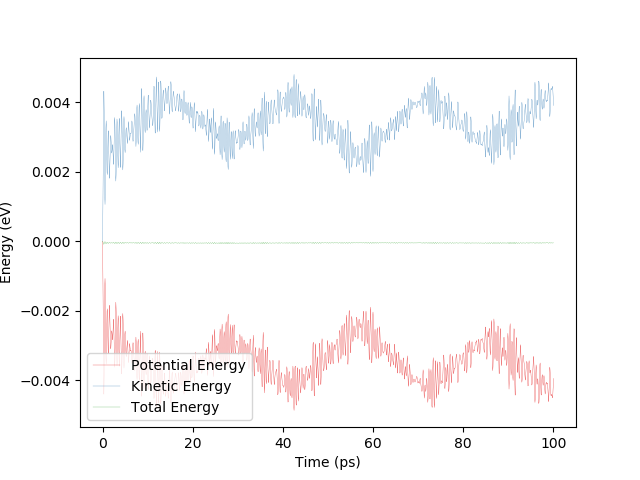
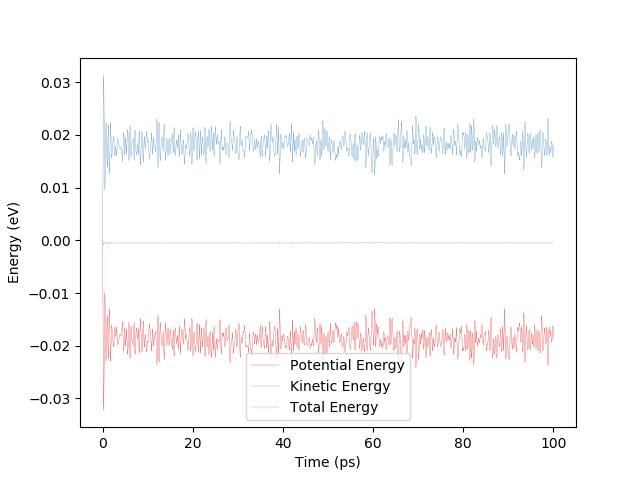
All completed

diff --git a/Assignment 4/Lennard_Jones.py b/Assignment 4/Lennard_Jones.py
@@ -2,27 +2,34 @@
 
 import numpy as np
 import matplotlib.pyplot as plt
-import scipy.fftpack
 import seaborn as sns
 
 def Init(N):
     '''
-    Initialised the positions of a chain of N argon atoms in a straight line
+    ============================================================================
+    Initialises the atomic positions of a chain of N argon atoms in 1D with a
+    variance of 0.01 Angstrom - note if the variance is changed to 0.001
+    Angstrom a much more periodic motion is observed as the atoms are initially
+    more evenly spaced.
+    ============================================================================
 
     Parameters
     -----------
-    N - int, Number of argon atoms in the chain
+    N : int,
+        Number of argon atoms in the chain
 
     Returns
     --------
-    pos - array, initial positions of argon atoms in chain
-    v0 - array, initial velocity of each atom
+    pos : array,
+        Initial positions of argon atoms in chain
+    v0 : array,
+        Initial velocity of each atom
     '''
 
     #Equilibrium separation
     do = 3.9 #Angstrom
-    #Random number to determine an initial displacement from equilibrium
-    sigma = np.sqrt(0.001)
+    #Generates random number to determine an initial displacement from equilibrium with std dev sigma
+    sigma = np.sqrt(0.01)
     s = np.random.normal(0,sigma,N)
     #s = np.zeros(N)
 
@@ -38,27 +45,29 @@ def Init(N):
 
 def Accel(pos):
     '''
+    ============================================================================
     determines the force on each argon atom in the chain as a result of Lennard-
     Jones potentials
+    ============================================================================
 
     Parameters
     -----------
-    pos - array, initial positions of the argon atoms
+    pos : array
+        Initial positions of the argon atoms
 
     Returns
     -------
-    a - array, acceleration of each atom
-    V - Total potential energy (eV) for this arrangement
-    F - array, the force on each atom as a result of interactions with every other
-        atom in the chain
+    a : array
+        Acceleration of each atom (Angstrom per ps^2)
+    V : Float
+        Total potential energy (eV) for this arrangement
 
     '''
 
-    A = 1.209*10**(5)#0.0011639175169510549#
-    B = 70.66#0.7468261337975162#
+    #Initialise Parameters
+    A = 1.209*10**(5)
+    B = 70.66
     N = len(pos)
-
-    #print(pos)
 
     #Matrix of interactions between each atomic pair
     rmat = np.array([[pos[n]-pos[m] for n in range(N) if n!=m] for m in range(N)])
@@ -110,19 +119,33 @@ def Accel(pos):
 
 def adjacent_pairs(x):
     '''
+    ============================================================================
+    Determines the separation between all sets of adjacent atoms in a chain
+    ============================================================================
+
     Parameters
     ----------
-    x - array
+    x : array
         positions of all atoms in chain
+
+    Returns
+    --------
+    r : array
+        separation of each set of adjacent pairs
     '''
+    #Number of atoms in the chain
     N = len(x)
+    #Calculate separation for only adjacent pairs
     r = [x[n+1]-x[n] for n in range(N-1)]
 
     return r
 
 
 def velocityverlet(N, accel, x0, v0, dt, nt):
-    '''Velocity Verlet integration to find x(t) and v(t)
+    '''
+    ============================================================================
+    Velocity Verlet integration to find x(t) and v(t)
+    ============================================================================
 
     Parameters
     ----------
@@ -163,23 +186,48 @@ def velocityverlet(N, accel, x0, v0, dt, nt):
 
         v[:,it] = v[:,it-1] + 0.5*dt*a
         x[:,it] = x[:,it-1] + v[:,it]*dt
-        # Sometimes you'll see this with the two preceeding steps
-        # combined to one, and a full step update of v
-        # at the end
+
         a,V[it] = accel(x[:,it])
-        # This is basically equivalent to the leapfrog method
-        # except that we have v at that timestep at the end of
-        # each step.
+
         v[:,it] = v[:,it] + 0.5*dt*a
 
-        # plt.plot(x.transpose()[it], np.zeros(50), 'ro')
-        # plt.show()
     return x,v,V
 
-#sns.palplot(sns.color_palette("GnBu_d"))
+
 def multiplot(N,x,y,l,cmap,plotname, xlabel, ylabel, relative_init=True, lim = None, legend = None):
     '''
-    Plots multiple fucntions against the same y axis and saves figure as a png image
+    ============================================================================
+    Plots multiple fucntions against the same y axis and saves figure as a png
+    image
+    ============================================================================
+
+    Parameters
+    -----------
+    N : int
+        Number of functions to be plotted
+    x : array
+        x data to be plotted
+    y : nested arrays
+        contains each set of y data to be plotted
+    l : float
+        linewidth of plot
+    cmap : string
+        colour map of plots
+    plotname : string
+        Name of final figure
+    xlabel : string
+    ylabel : string
+    relative_init : boolean
+        If set to true, a relative set of data will be plotted against the Initial
+        value (y[i] - y[i][0] will be plotted)
+    lim : Float
+        upper x limit for plot data
+    legend : array of strings
+        contains the labels for each plot if legend is desired
+
+    Returns
+    --------
+    saved png image of plot as 'plotname.png'
     '''
 
     if legend is None:
@@ -210,6 +258,29 @@ def multiplot(N,x,y,l,cmap,plotname, xlabel, ylabel, relative_init=True, lim = N
         plt.savefig('Plot')
 
 def Energy_plots(nt,Vvals,vvals,tvals):
+    '''
+    ============================================================================
+    Detemines the Kinetic energy and generates a plot of Potential, Kinetic and
+    Total Energies
+    ============================================================================
+
+    Parameters
+    -----------
+    nt : int
+        number of data points
+    Vvals : array
+        potential energy data
+    vvals : array
+        velocity data
+    tvals : array
+        time data
+
+    Returns
+    --------
+    Tvals : array
+        Kinetic Energy data
+
+    '''
 
     #Unit conversions
     e = 1.6e-19
@@ -227,17 +298,44 @@ def Energy_plots(nt,Vvals,vvals,tvals):
 
     Energies = [Vvals,Tvals,Vvals+Tvals]
 
+    #plot data
     multiplot(3,tvals,Energies,0.2,'Set1','Energies', xlabel = 'Time (ps)', ylabel = 'Energy (eV)',legend = ['Potential Energy','Kinetic Energy', 'Total Energy'])
 
     return Tvals
 
 def Fourier(N,dt,nt,xvals):
+    '''
+    ============================================================================
+    Calculates the fourier transform of the change in the separation between
+    adjacent atoms relative to its average value
+    ============================================================================
+
+    Parameters
+    ----------
+    N : int
+        Number of atoms in chain
+    dt : float
+        timestep intervals (ps) of data points
+    nt : int
+        total number of timesteps (ps)
+    xvals : matrix array
+        data of x positions of each atom at each timestep
+
+    Returns
+    --------
+    ftr_avg : array
+        list of real fourier transformed values
+    ftr_avg : array
+        list of imaginary fourier transformed values
+    '''
+    #Determine samples as values of the change in the separation between
+    #adjacent atoms relative to its average value
     samples = np.zeros(nt)
     nn_separations = np.array([adjacent_pairs(xvals[:,i]) for i in range(nt)])
     nn_average = np.array([np.sum(nn_separations[:,i])/nt for i in range(N-1)])/nt
     samples = [nn_separations[:,i] - nn_average[i] for i in range(N-1)]
 
-    #fft
+    #calculates the fourier transform of each pair
     ftr = np.zeros((N,int(nt/2+1)))
     fti = np.zeros((N,int(nt/2+1)))
     for i in range(N-1):
@@ -245,17 +343,22 @@ def Fourier(N,dt,nt,xvals):
         ftr[i] = np.array(np.real(ft_samples))
         fti[i] = np.array(np.imag(ft_samples))
 
+    #Average over all pairs
     ftr_avg = np.array([np.sum(ftr[:,i]) for i in range(len(ftr[0]))])/len(ftr[0])
     ftr_avg = ftr_avg.tolist()
     fti_avg = np.array([np.sum(fti[:,i]) for i in range(len(fti[0]))])/len(fti[0])
     fti_avg = fti_avg.tolist()
+
+    #Determine set of frequencies corresponding to fourier transformed data
     freqs = np.fft.rfftfreq(len(samples[0]), dt)
     freqs = freqs.tolist()
 
+    #remove the initial data point of each set
     ftr_avg.remove(ftr_avg[0])
     fti_avg.remove(fti_avg[0])
     freqs.remove(freqs[0])
 
+    #plot data
     multiplot(2,freqs,[ftr_avg,fti_avg] ,0.5,'husl','Fourier Transform',relative_init=False,lim = 2, xlabel = 'Frequency (THz)', ylabel = None, legend=('Real','Imaginary'))
 
     return ftr_avg, fti_avg
@@ -279,10 +382,13 @@ def main(N,t,dt):
     pos,v0 = Init(N)
     xvals,vvals,Vvals = velocityverlet(N,Accel,pos,v0,dt,nt)
 
+    #plot displacement from initial position of each atom
     multiplot(len(xvals),tvals,xvals,0.5,'GnBu_d','Displacement from initial position',xlabel = 'Time (ps)', ylabel = 'Displacement (Angstrom)')
 
+    # calculate kinetic energy and plot all energies
     Tvals = Energy_plots(nt,Vvals,vvals,tvals)
 
+    #perform a fourier transform and plot result
     ftr_avg, fti_avg = Fourier(N,dt,nt,xvals)
 
 
